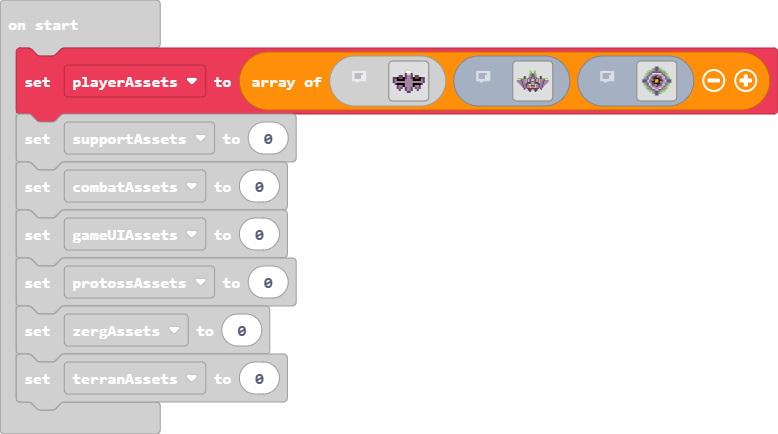
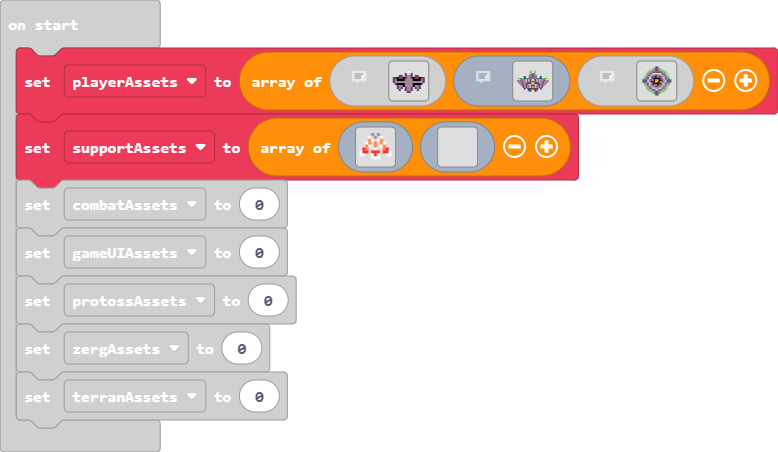
missile powerup sprite

diff --git a/main.ts b/main.ts
@@ -24,10 +24,10 @@ let playerAssets = [img`
     .............7b..b7.............
     .............7bbbb7.............
     ............7bbcebb7............
-    ............7bbecbb7............
-    .......cc...7bbccbb7...cc.......
+    ............6bbecbb6............
+    .......cc...6bbccbb6...cc.......
     .......cc...cbcbbcbc...cc.......
-    .777777cc77cbbcbbcbbc77cc777777.
+    .77c776cc66cbbcbbcbbc66cc677c77.
     ddddcbbbbdcdbcbddbcbdcdbbbbcdddd
     bbbbcbbbbdcdbcbddbcbdcdbbbbcbbbb
     bbbbbcbbbdcdbcbccbcbdcdbbbcbbbbb
@@ -63,7 +63,37 @@ let playerAssets = [img`
     .........cc.........
     ....................
     `]
-let supportAssets = 0
+let supportAssets = [img`
+    . . . . b . b . . . . 
+    . . . 1 d b d 1 . . . 
+    . . . 4 1 d 1 4 . . . 
+    . . 1 4 . 4 . 4 1 . . 
+    . . 4 1 . 4 . 1 4 . . 
+    . 2 4 . . 1 . . 4 2 . 
+    1 2 2 . 2 2 2 . 2 2 1 
+    1 1 . . 1 2 1 . . 1 1 
+    . . . . 1 1 1 . . . . 
+    `, img`
+    . . . . . . . . . . . 
+    . . . . . . . . . . . 
+    . . . . . . . . . . . 
+    . . . . . . . . . . . 
+    . . . . . . . . . . . 
+    . . . . . . . . . . . 
+    . . . . . . . . . . . 
+    . . . . . . . . . . . 
+    . . . . . . . . . . . 
+    . . . . . . . . . . . 
+    . . . . . . . . . . . 
+    . . . . . . . . . . . 
+    . . . . . . . . . . . 
+    . . . . . . . . . . . 
+    . . . . . . . . . . . 
+    . . . . . . . . . . . 
+    . . . . . . . . . . . 
+    . . . . . . . . . . . 
+    . . . . . . . . . . . 
+    `]
 let combatAssets = 0
 let gameUIAssets = 0
 let protossAssets = 0
